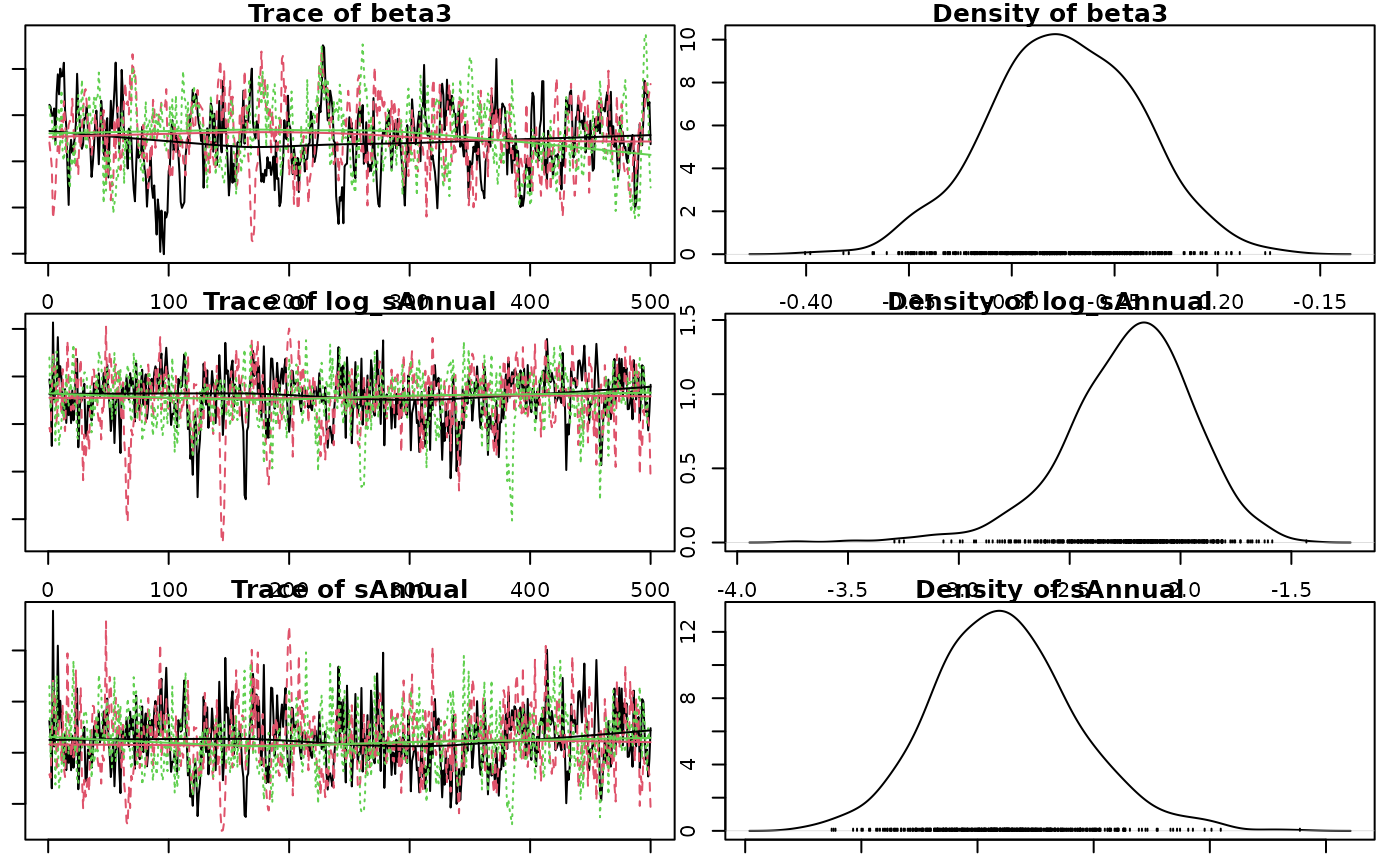
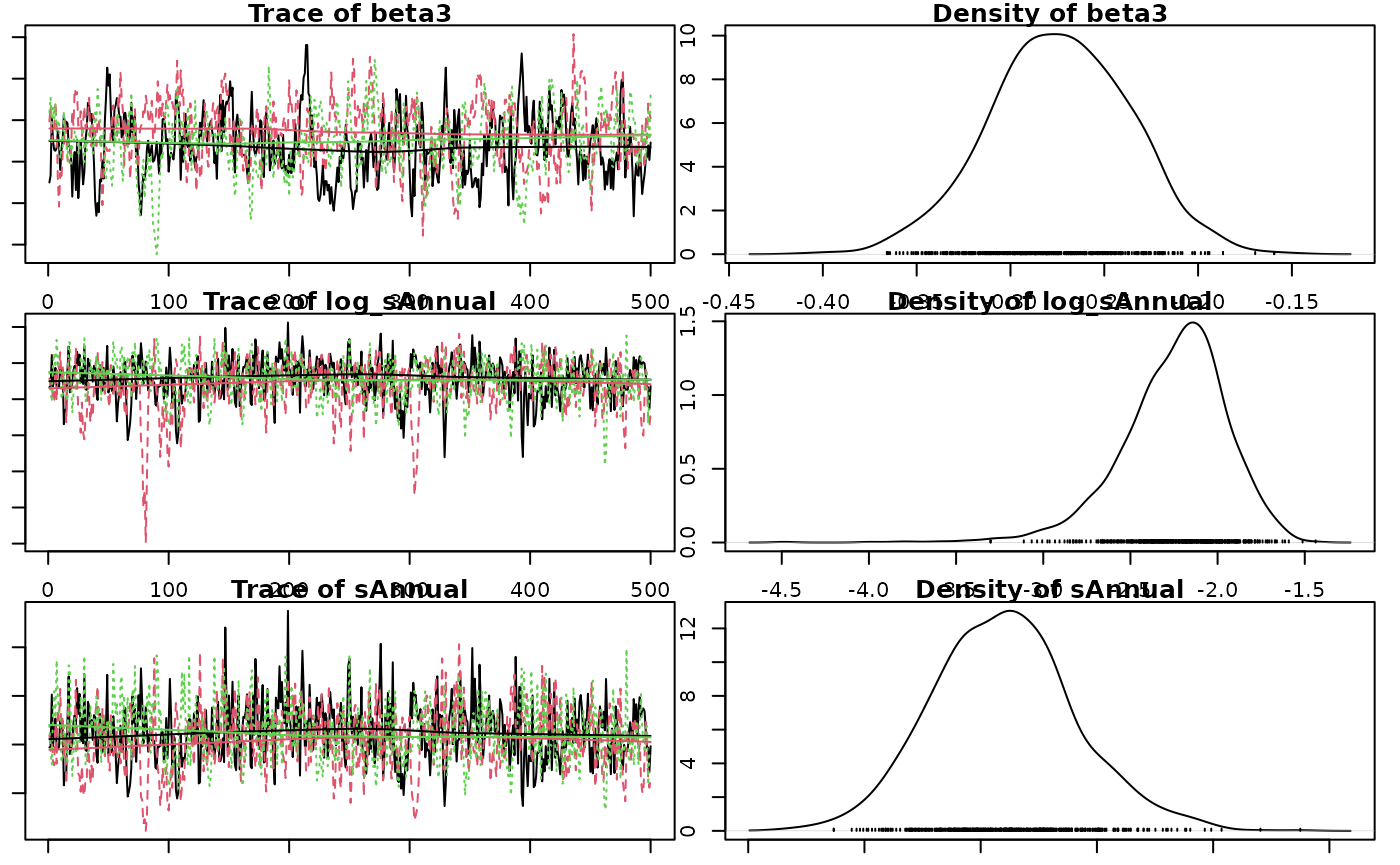
Deploying to gh-pages from @ poissonconsulting/jmbr@46dc2516bb963141d55855eef8cb7c03bfebbd37 🚀

diff --git a/articles/jmbr.html b/articles/jmbr.html
@@ -300,14 +300,14 @@ value and discarding all other values.</p>
 <span><span class="co">#&gt; <span style="color: #949494;"># A tibble: 1 × 8</span></span></span>
 <span><span class="co">#&gt;       n     K nchains niters nthin   ess  rhat converged</span></span>
 <span><span class="co">#&gt;   <span style="color: #949494; font-style: italic;">&lt;int&gt;</span> <span style="color: #949494; font-style: italic;">&lt;int&gt;</span>   <span style="color: #949494; font-style: italic;">&lt;int&gt;</span>  <span style="color: #949494; font-style: italic;">&lt;int&gt;</span> <span style="color: #949494; font-style: italic;">&lt;int&gt;</span> <span style="color: #949494; font-style: italic;">&lt;int&gt;</span> <span style="color: #949494; font-style: italic;">&lt;dbl&gt;</span> <span style="color: #949494; font-style: italic;">&lt;lgl&gt;</span>    </span></span>
-<span><span class="co">#&gt; <span style="color: #BCBCBC;">1</span>    40     6       3    500    10   286  1.01 TRUE</span></span>
+<span><span class="co">#&gt; <span style="color: #BCBCBC;">1</span>    40     6       3    500    10   256  1.02 TRUE</span></span>
 <span><span class="co">#&gt; Warning in value[[3L]](cond): beep() could not play the sound due to the following error:</span></span>
 <span><span class="co">#&gt; Error in play.default(x, rate, ...): no audio drivers are available</span></span>
 <span><span class="va">analysis</span> <span class="op">&lt;-</span> <span class="fu"><a href="https://rdrr.io/pkg/embr/man/reanalyse.html" class="external-link">reanalyse</a></span><span class="op">(</span><span class="va">analysis</span><span class="op">)</span></span>
 <span><span class="co">#&gt; <span style="color: #949494;"># A tibble: 1 × 8</span></span></span>
 <span><span class="co">#&gt;       n     K nchains niters nthin   ess  rhat converged</span></span>
 <span><span class="co">#&gt;   <span style="color: #949494; font-style: italic;">&lt;int&gt;</span> <span style="color: #949494; font-style: italic;">&lt;int&gt;</span>   <span style="color: #949494; font-style: italic;">&lt;int&gt;</span>  <span style="color: #949494; font-style: italic;">&lt;int&gt;</span> <span style="color: #949494; font-style: italic;">&lt;int&gt;</span> <span style="color: #949494; font-style: italic;">&lt;int&gt;</span> <span style="color: #949494; font-style: italic;">&lt;dbl&gt;</span> <span style="color: #949494; font-style: italic;">&lt;lgl&gt;</span>    </span></span>
-<span><span class="co">#&gt; <span style="color: #BCBCBC;">1</span>    40     6       3    500    10   286  1.01 TRUE</span></span>
+<span><span class="co">#&gt; <span style="color: #BCBCBC;">1</span>    40     6       3    500    10   256  1.02 TRUE</span></span>
 <span><span class="co">#&gt; Warning in value[[3L]](cond): beep() could not play the sound due to the following error:</span></span>
 <span><span class="co">#&gt; Error in play.default(x, rate, ...): no audio drivers are available</span></span></code></pre></div>
 <p><strong>Analysis Table:</strong></p>
@@ -357,12 +357,12 @@ between- and within-chain estimates for model parameters.
 <span><span class="co">#&gt; <span style="color: #949494;"># A tibble: 6 × 7</span></span></span>
 <span><span class="co">#&gt;   term        estimate     sd  zscore   lower   upper   pvalue</span></span>
 <span><span class="co">#&gt;   <span style="color: #949494; font-style: italic;">&lt;term&gt;</span>         <span style="color: #949494; font-style: italic;">&lt;dbl&gt;</span>  <span style="color: #949494; font-style: italic;">&lt;dbl&gt;</span>   <span style="color: #949494; font-style: italic;">&lt;dbl&gt;</span>   <span style="color: #949494; font-style: italic;">&lt;dbl&gt;</span>   <span style="color: #949494; font-style: italic;">&lt;dbl&gt;</span>    <span style="color: #949494; font-style: italic;">&lt;dbl&gt;</span></span></span>
-<span><span class="co">#&gt; <span style="color: #BCBCBC;">1</span> alpha         4.26   0.041<span style="text-decoration: underline;">1</span> 104.     4.18    4.34   0.000<span style="text-decoration: underline;">666</span></span></span>
-<span><span class="co">#&gt; <span style="color: #BCBCBC;">2</span> beta1         1.20   0.072<span style="text-decoration: underline;">6</span>  16.5    1.06    1.35   0.000<span style="text-decoration: underline;">666</span></span></span>
-<span><span class="co">#&gt; <span style="color: #BCBCBC;">3</span> beta2        -<span style="color: #BB0000;">0.021</span><span style="color: #BB0000; text-decoration: underline;">2</span> 0.031<span style="text-decoration: underline;">4</span>  -<span style="color: #BB0000;">0.639</span> -<span style="color: #BB0000;">0.080</span><span style="color: #BB0000; text-decoration: underline;">0</span>  0.043<span style="text-decoration: underline;">7</span> 0.495   </span></span>
-<span><span class="co">#&gt; <span style="color: #BCBCBC;">4</span> beta3        -<span style="color: #BB0000;">0.275</span>  0.036<span style="text-decoration: underline;">8</span>  -<span style="color: #BB0000;">7.47</span>  -<span style="color: #BB0000;">0.348</span>  -<span style="color: #BB0000;">0.205</span>  0.000<span style="text-decoration: underline;">666</span></span></span>
-<span><span class="co">#&gt; <span style="color: #BCBCBC;">5</span> log_sAnnual  -<span style="color: #BB0000;">2.21</span>   0.297   -<span style="color: #BB0000;">7.52</span>  -<span style="color: #BB0000;">2.92</span>   -<span style="color: #BB0000;">1.73</span>   0.000<span style="text-decoration: underline;">666</span></span></span>
-<span><span class="co">#&gt; <span style="color: #BCBCBC;">6</span> sAnnual       0.110  0.030<span style="text-decoration: underline;">9</span>   3.62   0.054<span style="text-decoration: underline;">2</span>  0.178  0.000<span style="text-decoration: underline;">666</span></span></span></code></pre></div>
+<span><span class="co">#&gt; <span style="color: #BCBCBC;">1</span> alpha         4.27   0.041<span style="text-decoration: underline;">3</span> 103.     4.18    4.34   0.000<span style="text-decoration: underline;">666</span></span></span>
+<span><span class="co">#&gt; <span style="color: #BCBCBC;">2</span> beta1         1.20   0.072<span style="text-decoration: underline;">5</span>  16.5    1.06    1.34   0.000<span style="text-decoration: underline;">666</span></span></span>
+<span><span class="co">#&gt; <span style="color: #BCBCBC;">3</span> beta2        -<span style="color: #BB0000;">0.019</span><span style="color: #BB0000; text-decoration: underline;">3</span> 0.031<span style="text-decoration: underline;">7</span>  -<span style="color: #BB0000;">0.606</span> -<span style="color: #BB0000;">0.082</span><span style="color: #BB0000; text-decoration: underline;">3</span>  0.044<span style="text-decoration: underline;">6</span> 0.523   </span></span>
+<span><span class="co">#&gt; <span style="color: #BCBCBC;">4</span> beta3        -<span style="color: #BB0000;">0.274</span>  0.037<span style="text-decoration: underline;">5</span>  -<span style="color: #BB0000;">7.30</span>  -<span style="color: #BB0000;">0.350</span>  -<span style="color: #BB0000;">0.201</span>  0.000<span style="text-decoration: underline;">666</span></span></span>
+<span><span class="co">#&gt; <span style="color: #BCBCBC;">5</span> log_sAnnual  -<span style="color: #BB0000;">2.21</span>   0.311   -<span style="color: #BB0000;">7.24</span>  -<span style="color: #BB0000;">2.96</span>   -<span style="color: #BB0000;">1.74</span>   0.000<span style="text-decoration: underline;">666</span></span></span>
+<span><span class="co">#&gt; <span style="color: #BCBCBC;">6</span> sAnnual       0.110  0.030<span style="text-decoration: underline;">8</span>   3.57   0.051<span style="text-decoration: underline;">6</span>  0.175  0.000<span style="text-decoration: underline;">666</span></span></span></code></pre></div>
 <p>The estimate is the <strong>median</strong> by default.</p>
 <p>The zscore is <span class="math inline">\(mean / sd\)</span>.</p>
 <div class="sourceCode" id="cb12"><pre class="downlit sourceCode r">
@@ -370,12 +370,12 @@ between- and within-chain estimates for model parameters.
 <span><span class="co">#&gt; <span style="color: #949494;"># A tibble: 6 × 5</span></span></span>
 <span><span class="co">#&gt;   term        estimate   lower   upper svalue</span></span>
 <span><span class="co">#&gt;   <span style="color: #949494; font-style: italic;">&lt;term&gt;</span>         <span style="color: #949494; font-style: italic;">&lt;dbl&gt;</span>   <span style="color: #949494; font-style: italic;">&lt;dbl&gt;</span>   <span style="color: #949494; font-style: italic;">&lt;dbl&gt;</span>  <span style="color: #949494; font-style: italic;">&lt;dbl&gt;</span></span></span>
-<span><span class="co">#&gt; <span style="color: #BCBCBC;">1</span> alpha         4.26    4.18    4.34    10.6 </span></span>
-<span><span class="co">#&gt; <span style="color: #BCBCBC;">2</span> beta1         1.20    1.06    1.35    10.6 </span></span>
-<span><span class="co">#&gt; <span style="color: #BCBCBC;">3</span> beta2        -<span style="color: #BB0000;">0.021</span><span style="color: #BB0000; text-decoration: underline;">2</span> -<span style="color: #BB0000;">0.080</span><span style="color: #BB0000; text-decoration: underline;">0</span>  0.043<span style="text-decoration: underline;">7</span>   1.01</span></span>
-<span><span class="co">#&gt; <span style="color: #BCBCBC;">4</span> beta3        -<span style="color: #BB0000;">0.275</span>  -<span style="color: #BB0000;">0.348</span>  -<span style="color: #BB0000;">0.205</span>   10.6 </span></span>
-<span><span class="co">#&gt; <span style="color: #BCBCBC;">5</span> log_sAnnual  -<span style="color: #BB0000;">2.21</span>   -<span style="color: #BB0000;">2.92</span>   -<span style="color: #BB0000;">1.73</span>    10.6 </span></span>
-<span><span class="co">#&gt; <span style="color: #BCBCBC;">6</span> sAnnual       0.110   0.054<span style="text-decoration: underline;">2</span>  0.178   10.6</span></span></code></pre></div>
+<span><span class="co">#&gt; <span style="color: #BCBCBC;">1</span> alpha         4.27    4.18    4.34   10.6  </span></span>
+<span><span class="co">#&gt; <span style="color: #BCBCBC;">2</span> beta1         1.20    1.06    1.34   10.6  </span></span>
+<span><span class="co">#&gt; <span style="color: #BCBCBC;">3</span> beta2        -<span style="color: #BB0000;">0.019</span><span style="color: #BB0000; text-decoration: underline;">3</span> -<span style="color: #BB0000;">0.082</span><span style="color: #BB0000; text-decoration: underline;">3</span>  0.044<span style="text-decoration: underline;">6</span>  0.935</span></span>
+<span><span class="co">#&gt; <span style="color: #BCBCBC;">4</span> beta3        -<span style="color: #BB0000;">0.274</span>  -<span style="color: #BB0000;">0.350</span>  -<span style="color: #BB0000;">0.201</span>  10.6  </span></span>
+<span><span class="co">#&gt; <span style="color: #BCBCBC;">5</span> log_sAnnual  -<span style="color: #BB0000;">2.21</span>   -<span style="color: #BB0000;">2.96</span>   -<span style="color: #BB0000;">1.74</span>   10.6  </span></span>
+<span><span class="co">#&gt; <span style="color: #BCBCBC;">6</span> sAnnual       0.110   0.051<span style="text-decoration: underline;">6</span>  0.175  10.6</span></span></code></pre></div>
 <p>The s-value is the <strong>suprisal</strong> value, which is a
 measure of directionality with respect to zero.</p>
 <p>The s-value is zero (unsurprising) when <em>p-value</em> = 1.0 and
